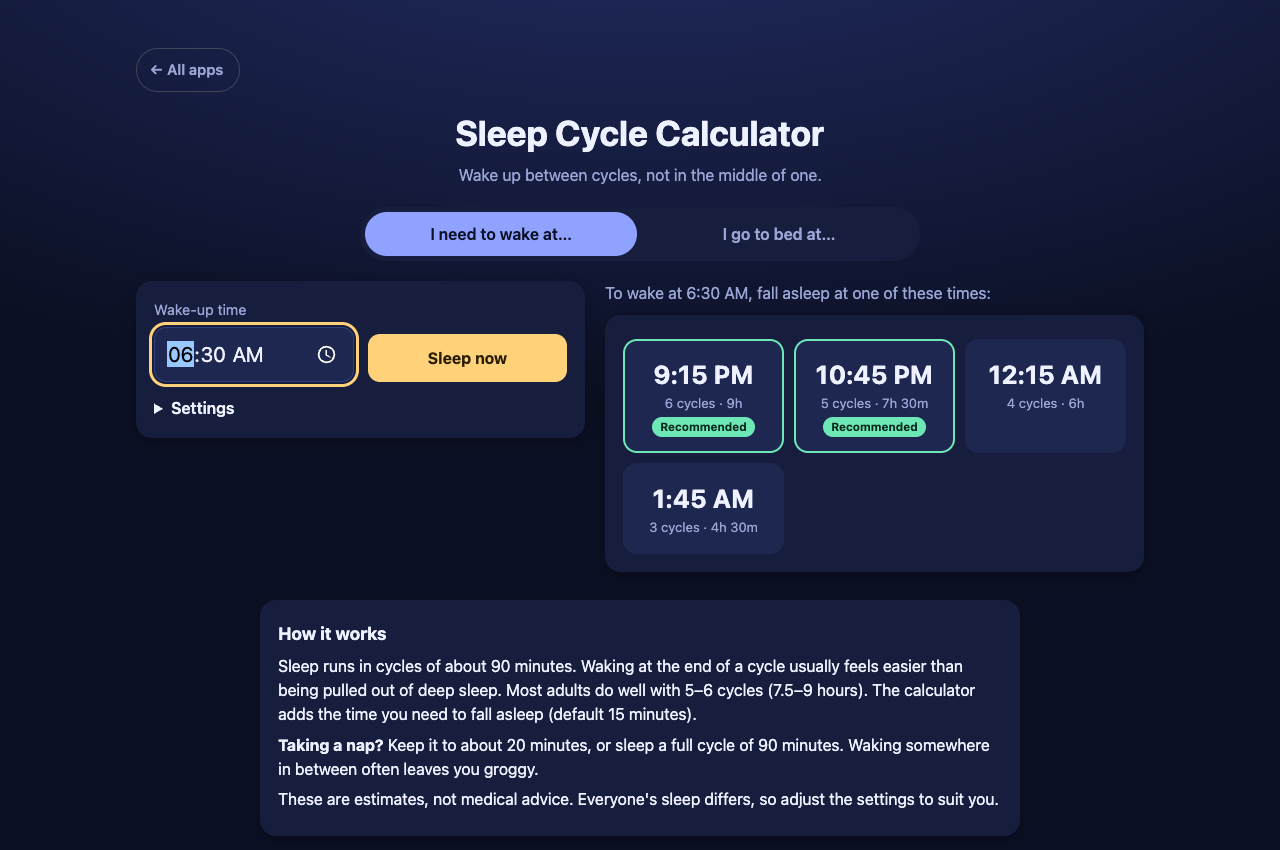
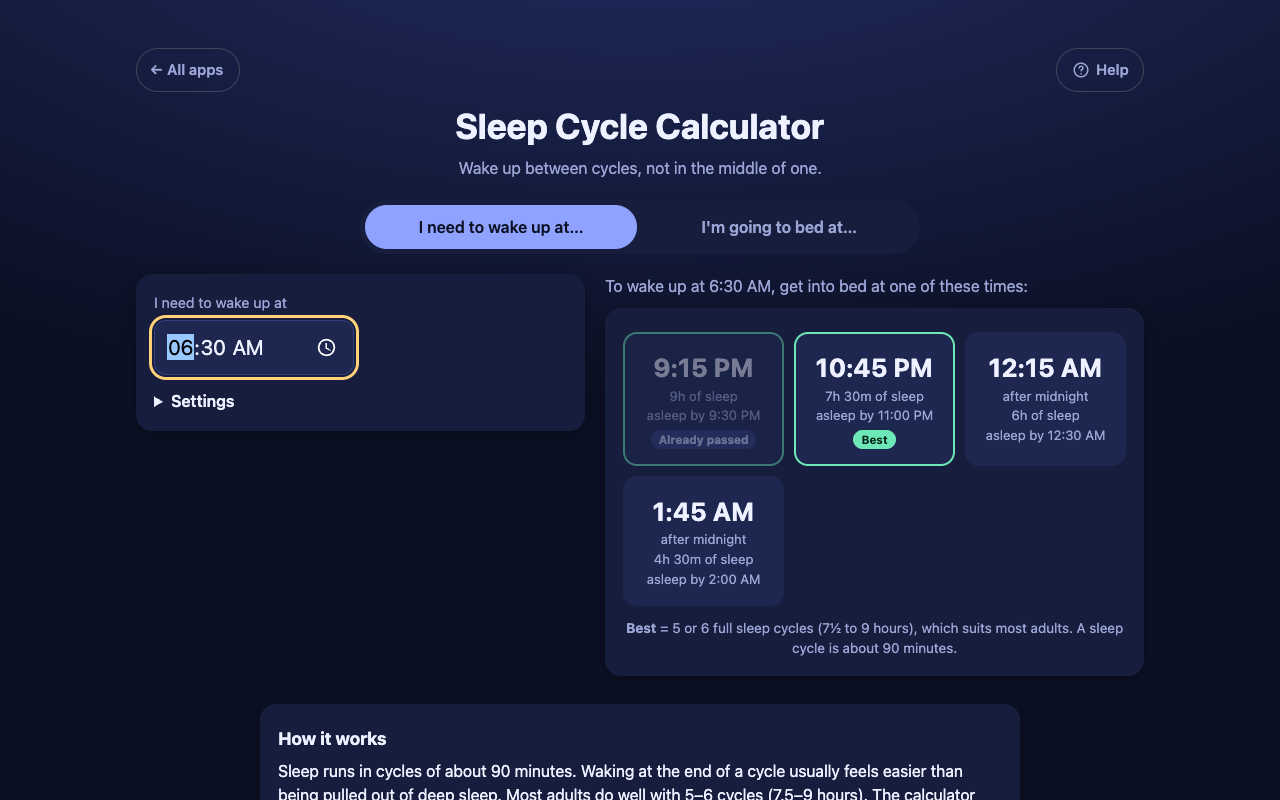
Sleep Cycle Calculator: fix wrong 'fall asleep' label (times are when to get into bed), mark times that already passed, clearer tabs and cards, 'Best' explained, help and README updated

diff --git a/sleepcycle/index.html b/sleepcycle/index.html
@@ -13,7 +13,7 @@
 <meta name="theme-color" content="#0f1530">
 <style>
 :root{--bg:#0b1024;--card:#161d3d;--card2:#1e2750;--fg:#eef1ff;--mut:#9aa5d6;--acc:#8fa2ff;--acc2:#ffd27a;--ok:#6ee7b7;--r:16px}
-*{box-sizing:border-box}
+*{box-sizing:border-box}[hidden]{display:none!important}
 html{-webkit-text-size-adjust:100%}
 body{margin:0;background:radial-gradient(1200px 600px at 50% -200px,#25306b,var(--bg));background-color:var(--bg);color:var(--fg);font:16px/1.5 system-ui,-apple-system,Segoe UI,Roboto,sans-serif;min-height:100vh}
 main{max-width:720px;margin:0 auto;padding:24px 16px 48px}
@@ -35,7 +35,7 @@ button:focus-visible,input:focus-visible,select:focus-visible{outline:3px solid 
 .res.best{border-color:var(--ok)}
 .res .t{font-size:1.6rem;font-weight:700;letter-spacing:.5px}
 .res .m{color:var(--mut);font-size:.82rem}
-.res .tag{display:inline-block;margin-top:4px;font-size:.72rem;color:#05281c;background:var(--ok);border-radius:999px;padding:1px 8px;font-weight:700}
+.legend{margin:12px 2px 0;color:var(--mut);font-size:.85rem;text-align:center}.res.past{opacity:.45}.res .tag.gone{background:#33407f;color:#cfd6ff}.res .tag{display:inline-block;margin-top:4px;font-size:.72rem;color:#05281c;background:var(--ok);border-radius:999px;padding:1px 8px;font-weight:700}
 #hint{color:var(--mut);text-align:center;margin:4px 0 10px}
 details{color:var(--mut)}summary{cursor:pointer;color:var(--fg);font-weight:600}
 h2{font-size:1.1rem;margin:.2em 0 .4em}
@@ -64,8 +64,8 @@ main>.card,main>footer{max-width:760px;margin-left:auto;margin-right:auto}}
 <p class="sub">Wake up between cycles, not in the middle of one.</p>
 
 <div class="tabs" role="tablist" aria-label="Mode">
-  <button role="tab" id="tab-wake" aria-selected="true" data-mode="wake">I need to wake at…</button>
-  <button role="tab" id="tab-bed" aria-selected="false" data-mode="bed">I go to bed at…</button>
+  <button role="tab" id="tab-wake" aria-selected="true" data-mode="wake">I need to wake up at…</button>
+  <button role="tab" id="tab-bed" aria-selected="false" data-mode="bed">I'm going to bed at…</button>
 </div>
 
 <div class="cols">
@@ -73,7 +73,7 @@ main>.card,main>footer{max-width:760px;margin-left:auto;margin-right:auto}}
 <section class="card">
   <div class="row">
     <div><label for="time" id="timeLabel">Wake-up time</label><input type="time" id="time" value="07:00"></div>
-    <div><button class="go" id="now" type="button">Sleep now</button></div>
+    <div><button class="go" id="now" type="button">Use the time now</button></div>
   </div>
   <details style="margin-top:14px"><summary>Settings</summary>
     <div class="row" style="margin-top:10px">
@@ -87,7 +87,7 @@ main>.card,main>footer{max-width:760px;margin-left:auto;margin-right:auto}}
 </div>
 <div class="out">
 <p id="hint" aria-live="polite"></p>
-<section class="card" aria-live="polite"><div id="results"></div></section>
+<section class="card" aria-live="polite"><div id="results"></div><p class="legend"><b>Best</b> = 5 or 6 full sleep cycles (7½ to 9 hours), which suits most adults. A sleep cycle is about 90 minutes.</p></section>
 </div>
 </div>
 
@@ -100,6 +100,6 @@ main>.card,main>footer{max-width:760px;margin-left:auto;margin-right:auto}}
 <footer>Free, no ads, no sign-up. Everything stays on your device. <a href="../">More free apps</a></footer>
 </main>
 <script src="app.js"></script>
-<script type="application/json" id="help-data">{"title": "How to use Sleep Cycle Calculator", "sections": [{"h": "Find your bedtime", "steps": ["Tap \"I need to wake at...\" and set your wake-up time. You get the times to fall asleep so you wake at the end of a sleep cycle.", "The green \"Recommended\" times give 5 to 6 cycles (7.5 to 9 hours), which suits most adults."]}, {"h": "Find your wake-up time", "steps": ["Tap \"I go to bed at...\" and set the time you will lie down, or tap \"Sleep now\". You get the best times to wake up."]}, {"h": "Settings", "steps": ["Open \"Settings\" to change the minutes you need to fall asleep (15 by default), your cycle length (90 minutes by default) and 12 or 24 hour time."]}, {"h": "Good to know", "tips": true, "steps": ["For a nap, keep it to about 20 minutes or a full 90-minute cycle.", "These are estimates, not medical advice."]}]}</script>
+<script type="application/json" id="help-data">{"title": "How to use Sleep Cycle Calculator", "sections": [{"h": "If you know when you must wake up", "steps": ["Stay on \"I need to wake up at...\" and set your wake-up time.", "The cards show the times to get into bed. Each card says how much sleep you get and when you will be asleep, since falling asleep takes a few minutes.", "Pick a time marked \"Best\", or any other time that suits you. A faded card says \"Already passed\", so choose a later one."]}, {"h": "If you are going to bed soon", "steps": ["Tap \"I'm going to bed at...\" and set the time you will get into bed, or tap \"Use the time now\".", "The cards show the times to set your alarm for, so you wake at the end of a sleep cycle."]}, {"h": "Settings", "steps": ["Open \"Settings\" to change the minutes you need to fall asleep (15 by default), your cycle length (90 minutes by default) and 12 or 24 hour time."]}, {"h": "Good to know", "tips": true, "steps": ["\"Best\" means 5 or 6 full sleep cycles, which is 7½ to 9 hours, what most adults need.", "For a nap, keep it to about 20 minutes or a full 90-minute cycle.", "These are estimates, not medical advice."]}]}</script>
 </body>
 </html>

diff --git a/sleepcycle/app.js b/sleepcycle/app.js
@@ -10,12 +10,16 @@
     return ((h%12)||12)+':'+pad(m)+' '+(h<12?'AM':'PM');
   }
   function hm(min){var h=Math.floor(min/60),m=min%60;return h+'h'+(m?' '+m+'m':'')}
+  // The time you typed, as a moment. For a wake-up time, that is the NEXT time the clock shows it (tonight's sleep -> tomorrow morning).
   function base(){
-    if(S.mode==='now'){return new Date()}
-    var p=S.time.split(':'),d=new Date();
-    d.setHours(+p[0]||0,+p[1]||0,0,0);return d;
+    var p=S.time.split(':'),d=new Date(),now=new Date();
+    d.setHours(+p[0]||0,+p[1]||0,0,0);
+    if(S.mode==='wake'&&d<=now)d.setDate(d.getDate()+1);
+    return d;
   }
   // pure calculation: returns [{date,cycles,minutes}]
+  //   wake: the times to GET INTO BED so you are asleep (after `fall` minutes) and wake exactly at the end of a cycle
+  //   bed:  the times to set the ALARM if you get into bed at the given time and fall asleep `fall` minutes later
   function calc(mode,anchor,fall,cyc){
     var out=[],n;
     if(mode==='wake'){
@@ -28,28 +32,29 @@
   }
   window.__calc=calc;
   function render(){
-    var mode=S.mode;
-    document.querySelectorAll('.tabs button').forEach(function(b){
-      var on=b.dataset.mode===(mode==='now'?'bed':mode);b.setAttribute('aria-selected',on)});
-    var wake=mode==='wake';
-    $('timeLabel').textContent=wake?'Wake-up time':'Bedtime';
+    var mode=S.mode,wake=mode==='wake',now=new Date();
+    document.querySelectorAll('.tabs button').forEach(function(b){b.setAttribute('aria-selected',b.dataset.mode===mode)});
+    $('timeLabel').textContent=wake?'I need to wake up at':'I am getting into bed at';
     $('time').value=S.time;$('fall').value=S.fall;$('cyc').value=S.cyc;$('fmt').value=S.fmt;
-    var a=base(),r=calc(wake?'wake':'bed',a,S.fall,S.cyc);
-    $('hint').textContent=wake?'To wake at '+fmt(a)+', fall asleep at one of these times:'
-      :(mode==='now'?'If you fall asleep now (about '+S.fall+' min from '+fmt(a)+'), wake at:':'If you go to bed at '+fmt(a)+', wake at:');
+    $('now').hidden=wake;   // "Use the time now" only makes sense for bedtime
+    var a=base(),r=calc(wake?'wake':'bed',a,S.fall,S.cyc),first=r[0].date,late=S.fall?' (you fall asleep about '+S.fall+' min later)':'';
+    $('hint').textContent=wake?'To wake up at '+fmt(a)+', get into bed at one of these times:'
+      :'If you get into bed at '+fmt(a)+late+', set your alarm for one of these times:';
     $('results').innerHTML=r.map(function(x){
-      var best=x.cycles>=5&&x.cycles<=6;
-      return '<div class="res'+(best?' best':'')+'"><div class="t">'+fmt(x.date)+'</div><div class="m">'+x.cycles+' cycles · '+hm(x.minutes)+'</div>'+(best?'<span class="tag">Recommended</span>':'')+'</div>';
+      var best=x.cycles>=5&&x.cycles<=6,past=wake&&x.date<now,after=wake&&x.date.getDate()!==first.getDate();
+      var asleep=wake&&S.fall?'<div class="m">asleep by '+fmt(new Date(x.date.getTime()+S.fall*6e4))+'</div>':'';
+      return '<div class="res'+(best?' best':'')+(past?' past':'')+'"><div class="t">'+fmt(x.date)+'</div>'+(after?'<div class="m">after midnight</div>':'')+
+        '<div class="m">'+hm(x.minutes)+' of sleep</div>'+asleep+(past?'<span class="tag gone">Already passed</span>':best?'<span class="tag">Best</span>':'')+'</div>';
     }).join('');
   }
   document.querySelectorAll('.tabs button').forEach(function(b){
     b.onclick=function(){S.mode=b.dataset.mode;save();render()}});
-  $('time').oninput=function(){if(this.value){S.time=this.value;if(S.mode==='now')S.mode='bed';save();render()}};
-  $('now').onclick=function(){S.mode='now';render()};
+  $('time').oninput=function(){if(this.value){S.time=this.value;save();render()}};
+  $('now').onclick=function(){var d=new Date();S.time=pad(d.getHours())+':'+pad(d.getMinutes());S.mode='bed';save();render()};
   $('fall').onchange=function(){S.fall=Math.min(120,Math.max(0,parseInt(this.value,10)||0));save();render()};
   $('cyc').onchange=function(){S.cyc=Math.min(120,Math.max(60,parseInt(this.value,10)||90));save();render()};
   $('fmt').onchange=function(){S.fmt=this.value;save();render()};
-  if(S.mode==='now')S.mode='bed';
+  if(S.mode!=='wake'&&S.mode!=='bed')S.mode='bed';
   render();
   if('serviceWorker' in navigator&&location.protocol.indexOf('http')===0)navigator.serviceWorker.register('sw.js').catch(function(){});
 })();

diff --git a/sleepcycle/sw.js b/sleepcycle/sw.js
@@ -1,4 +1,4 @@
-var C='sleepcycle-v9',F=['../help.js','./','index.html','app.js','manifest.webmanifest','favicon.svg','icons/icon-192.png'];
+var C='sleepcycle-v10',F=['../help.js','./','index.html','app.js','manifest.webmanifest','favicon.svg','icons/icon-192.png'];
 self.addEventListener('install',function(e){e.waitUntil(caches.open(C).then(function(c){return c.addAll(F)}));self.skipWaiting()});
 self.addEventListener('activate',function(e){e.waitUntil(caches.keys().then(function(k){return Promise.all(k.filter(function(x){return x.indexOf('sleepcycle-')==0&&x!==C}).map(function(x){return caches.delete(x)}))}))});
 self.addEventListener('fetch',function(e){e.respondWith(fetch(e.request).then(function(r){if(r.ok&&e.request.method==='GET'){var c=r.clone();caches.open(C).then(function(x){x.put(e.request,c)})}return r}).catch(function(){return caches.match(e.request,{ignoreSearch:true})}))});

diff --git a/sleepcycle/README.md b/sleepcycle/README.md
@@ -10,12 +10,12 @@ A free **sleep cycle calculator** that tells you the best time to go to bed or w
 
 ## The situation it solves
 
-You must wake at 6:30 AM. Sleep Cycle Calculator tells you when to fall asleep: **9:15 PM** (6 cycles, 9 hours), **10:45 PM** (5 cycles, 7 hours 30 minutes), 12:15 AM (4 cycles) or 1:45 AM (3 cycles). The 5 and 6 cycle times are marked *Recommended*. It allows 15 minutes to fall asleep by default.
+You must wake at 6:30 AM. Sleep Cycle Calculator tells you when to **get into bed**: **9:15 PM** (6 cycles, 9 hours of sleep, asleep by 9:30 PM), **10:45 PM** (5 cycles, 7 hours 30 minutes, asleep by 11:00 PM), 12:15 AM (4 cycles, 6 hours) or 1:45 AM (3 cycles, 4 hours 30 minutes). Times marked **Best** give 5 or 6 full cycles. Times that have already passed are faded and marked "Already passed", so you only pick one you can still make.
 
 ## Features
 
 - **Help button.** Tap **Help** at the top for a short how-to written for this app, and tap **All apps** to go back to the list.
-- **I need to wake at...** gives the times to fall asleep. **I go to bed at...** gives the times to wake up. **Sleep now** starts from the current time.
+- **I need to wake up at...** gives the times to get into bed. **I'm going to bed at...** gives the times to set your alarm, and **Use the time now** fills in the current time. Each card shows the hours of sleep and when you will be asleep.
 - A nap tip: about 20 minutes, or a full 90-minute cycle, avoids waking in deep sleep.
 - Settings: minutes to fall asleep, cycle length (default 90), and 12 or 24 hour clock. They are remembered on your device.
 - Works offline and installable. Private: nothing leaves your device.
